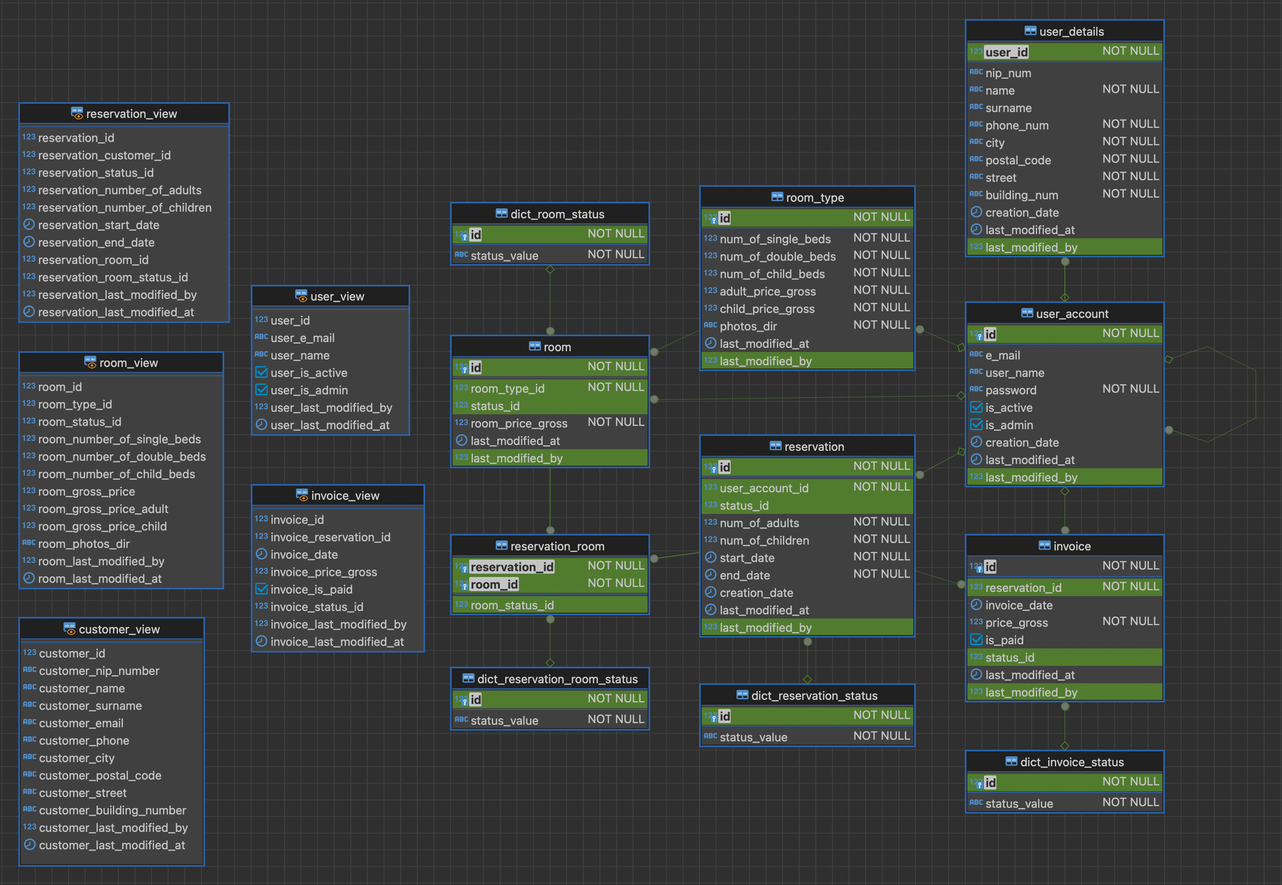
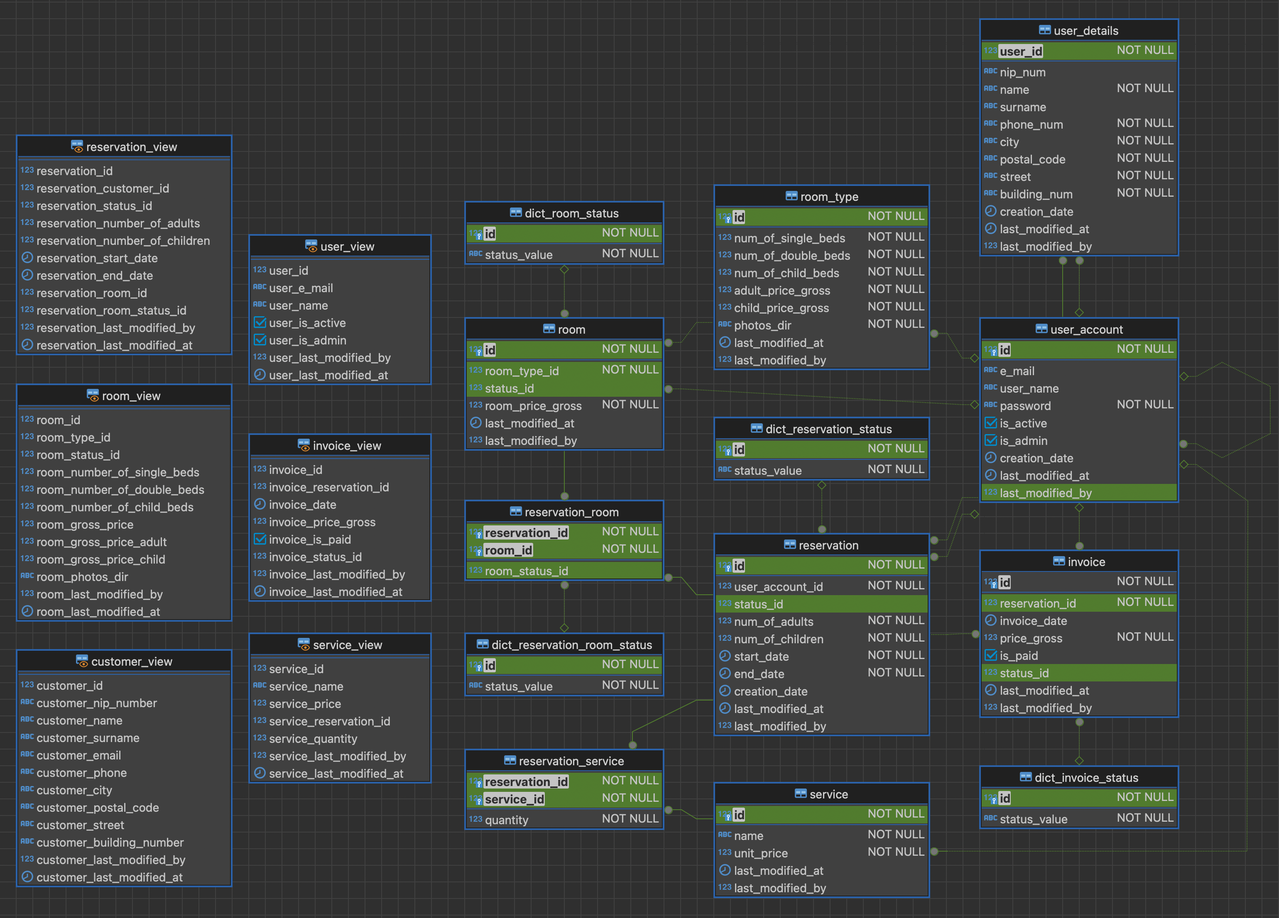
feature/addReservationService (#27)
* add service tables and constraints

* add service_view

* add update and insert functions

* add triggers

* add privileges for api users to service_view

* unify naming

* update docs

* fix typos, add to table of contents

Changed region(s): [[0.0, 0.0, 0.9351, 0.9906]]

diff --git a/README.md b/README.md
@@ -18,6 +18,8 @@
             3. [customer_view](#1223-customer_view)
             4. [invoice_view](#1224-invoice_view)
             5. [user_view](#1225-user_view)
+            6. [service_view](#1226-service_view)
+
 
 # 1. Struktura 
 
@@ -33,6 +35,8 @@ Tabele główne:
 - `user_account` - przechowuje konta użytkowników systemu
 - `user_details` - przechowuje dane kontaktowe klientów
 - `invoice` - reprezentuje faktury wystawiane do zamówień
+- `service` - przechowuje dostępne usługi hotelu
+- `reservation_service` - łączy rezerwacje z wykupionymi usługami
 
 Tabele słowniki:
 - `dict_reservation_status`
@@ -89,7 +93,7 @@ Struktura zewnętrzna bazy danych (widziana przez `Backend`) składa się z 5 wi
 classDiagram
 direction LR
 
-class reservation_view{
+class reservation_view {
     reservation_id
     customer_id
     reservation_room_id
@@ -125,10 +129,18 @@ class user_view {
     UPDATE()
 }
 
-class invoice {
+class invoice_view {
     invoice_id
     invoice_reservation_id
     invoice_last_modified_by
+
+    INSERT()
+    UPDATE()
+}
+
+class service_view {
+    reservation_id
+    service_last_modified_by
 
     INSERT()
     UPDATE()
@@ -141,8 +153,10 @@ room_view <--> user_view : (room_last_modified_by - user_id)
 customer_view <--> user_view : (customer_id - user_id)
 customer_view <--> user_view : (customer_last_modified_by - user_id)
 user_view <--> user_view  : (user_last_modified_by - user_id)
-invoice <--> reservation_view: (invoice_reservation_id - reservation_id)
-invoice <--> user_view : (user_last_modified_by - user_id)
+invoice_view <--> reservation_view: (invoice_reservation_id - reservation_id)
+invoice_view <--> user_view : (user_last_modified_by - user_id)
+service_view <--> reservation_view: (service_reservation_id - reservation_id)
+service_view <--> user_view : (service_last_modified_by - user_id)
 
 ```
 
@@ -171,6 +185,7 @@ wszystkie odwołują się do pola o nazwie `ID` w tabelach jak poniżej.
 | customer_id                    | customer_view    | user_account                 | customer_view           |
 | invoice_status_id              | invoice_view     | dict_invoice_status          | --                      |
 | invoice_reservation_id         | invoice_view     | reservation                  | reservation_view        |
+| service_reservation_id         | service_view     | reservation                  | reservation_view        |
 
 #### 1.2.2.1 reservation_view
 | Nazwa kolumny w widoku         |  UPDATE | INSERT  |
@@ -298,4 +313,16 @@ Poniższe operacje nie są możliwe do wykonania przy użyciu instrukcji `UPDATE
         - user_passoword <- hasło do autentykacji dla tworzonego użytkownika
 
 
-# 2. Weryfikacja danych
+#### 1.2.2.6 service_view
+| Nazwa kolumny w widoku    |  UPDATE | INSERT  |
+|---------------------------|---------|---------|
+| service_id                |         |         |
+| service_name              |    X    |    X    |
+| service_price             |    X    |    X    |
+| service_reservation_id    |         |    X    |
+| service_quantity          |    X    |    X    |
+| service_last_modified_by  |    X    |         |
+| service_last_modified_at  |         |         |
+
+- `service_id` <- generowane automatycznie.
+- `service_reservation_id` <- można ustawić tylko przy instrukcji `INSERT`
